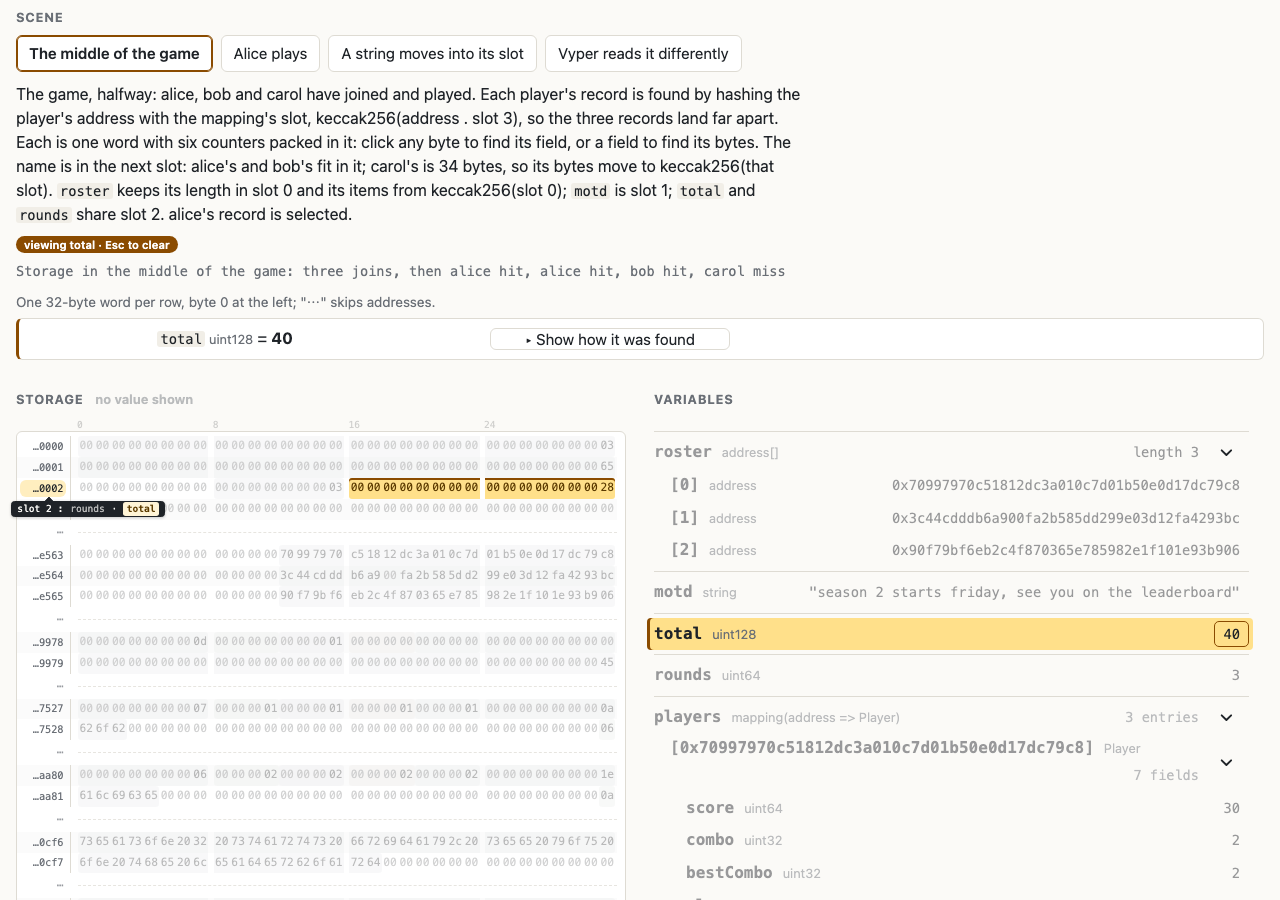
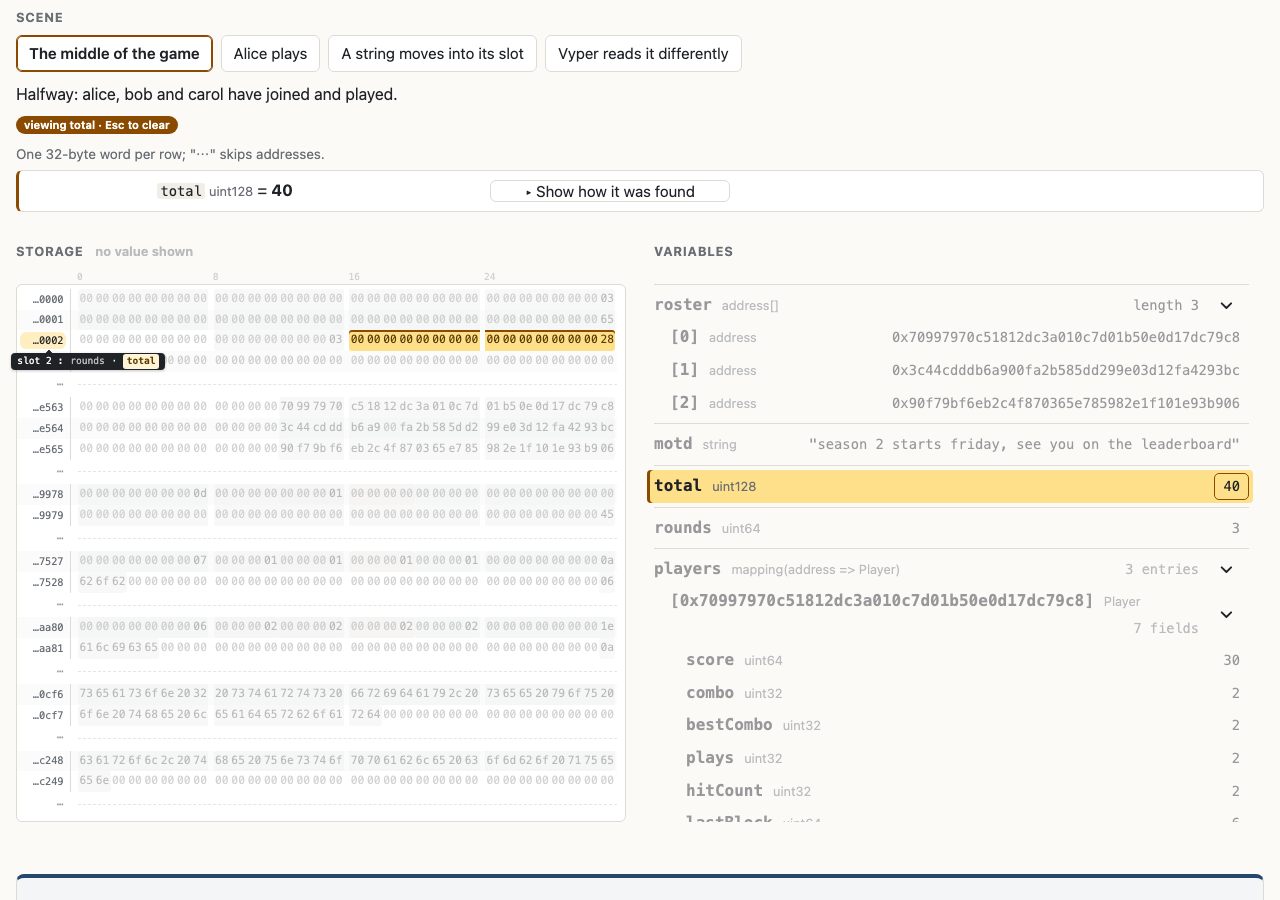
Inspector: the page decluttered to put the inspector on the first screen (one line a scene, a short contract intro, a short memory lede); the removed prose moved to the README's About this demo, linked at the bottom

diff --git a/demos/inspector/index.html b/demos/inspector/index.html
@@ -71,38 +71,15 @@ end of the body fetches the decoder and the data. -->
 <main>
   <header>
     <h1>Storage, by name</h1>
-    <p>One contract, Arcade, in a few scenes. Click a byte in a word of
-    storage, and the variable that owns it lights up; click a variable,
-    and its bytes light up. "How this was found" shows each step from
-    the variable to its bytes. Some scenes compare two points (Before |
-    After) and mark what changed.</p>
-    <p>Decoded by ethdebug's reference library from solc's ethdebug
-    output (a preview build of Walnut's solc fork, walnuthq/solidity
-    PR #10). Each variable's base slot, offset and type come from the
-    program context; the rules for mappings, structs, arrays and strings
-    come from the pointer templates in the resources.</p>
-    <p class="meta" id="meta"></p>
-    <p class="appendix-nav">Part of the ethdebug post appendix, with
-    <a href="../../companion/">ethdebug in depth</a> and
-    <a href="../debugger/">Step through a transaction</a>.</p>
+    <p class="meta" id="meta" hidden></p>
   </header>
 
   <section id="contract" class="contract" aria-labelledby="contract-h">
     <h2 class="label" id="contract-h">The contract</h2>
-    <p>Every scene below shows one contract, Arcade: the scoreboard of a
-    big multiplayer game. A player calls <code>join(name)</code> once,
-    then <code>play()</code>, which rolls a hit or a miss. A hit adds 1 to
-    the player's combo and scores 10 × combo (at most 5×); a miss sets
-    the combo back to 0, and the score stays. Each player's
-    <code>Player</code> in <code>players</code> is one full packed slot
-    (score, combo, bestCombo, plays, hitCount, lastBlock) and a name in
-    the next slot; <code>roster</code> lists who joined, since a mapping
-    cannot list its keys; <code>total</code> and <code>rounds</code>
-    count all points and hits; <code>setMotd</code> sets the message of
-    the day. The story: deploy with a 50-byte motd; alice, bob and carol
-    join; alice hits twice, bob hits, carol misses (the middle of the
-    game); alice hits a third time; then the motd becomes "gl hf". Each
-    player is an anvil account.</p>
+    <p>Arcade, the scoreboard of a multiplayer game: each player's record
+    is one packed slot and a name, kept in a mapping; <code>roster</code>
+    lists who joined. Click a byte to find its variable, or a variable to
+    find its bytes.</p>
     <!-- the contract's source (bin/make-fixtures.mjs writes it; bin/run.mjs
     checks that it matches); collapsed by default, open or closed as the
     viewer left it (localStorage) -->
@@ -175,47 +152,10 @@ contract Arcade {
     <!-- one intro per scene (fixtures/index.json); the loader shows the
     first one -->
     <div id="intros" class="intros">
-      <p data-scene="mid" hidden>The game, halfway: alice, bob and carol
-      have joined and played. Each player's record is found by hashing
-      the player's address with the mapping's slot,
-      keccak256(address . slot 3), so the three records land far apart.
-      Each is one word with six counters packed in it: click any byte to
-      find its field, or a field to find its bytes. The name is in the
-      next slot: alice's and bob's fit in it; carol's is 34 bytes, so its
-      bytes move to keccak256(that slot). <code>roster</code> keeps its
-      length in slot 0 and its items from keccak256(slot 0);
-      <code>motd</code> is slot 1; <code>total</code> and
-      <code>rounds</code> share slot 2. alice's
-      record is selected.</p>
-      <p data-scene="alice" hidden>alice hits a third time: combo 3, so
-      she scores 10 × 3 = 30. In her one slot, score goes from 30 to 60,
-      combo, bestCombo, plays and hitCount from 2 to 3, and lastBlock to
-      this block; <code>total</code> goes from 40 to 70 and
-      <code>rounds</code> from 3 to 4. Before is the middle of the game,
-      After is after her hit. Beside the lit word, a card shows it in the
-      other state.</p>
-      <p data-scene="motd" hidden>Arcade was deployed with a 50-byte
-      message of the day. A string that long keeps only 2 × its length + 1
-      in its slot, slot 1, and its bytes at keccak256(slot 1) and the slot
-      after it. <code>setMotd("gl hf")</code> makes it 5 bytes: short
-      enough that Solidity stores it in slot 1 itself, its bytes from the
-      high end and 2 × its length in the last byte. solc writes zeros to
-      the two old data slots; they are in the dump After. "How this was
-      found" shows where the two rules part. The call's calldata is under
-      the storage.</p>
-      <p data-scene="vyper" hidden>The same three players, in the same
-      game compiled by Vyper 0.4.3 (<code>contracts/Arcade.vy</code>), at
-      the same middle of the game. The rule from the first scene,
-      keccak256(address . slot 3), is Solidity's; it finds nothing here:
-      the tree shows each player with zeros and no name, with no error.
-      Vyper does not pack and keeps its arrays inline, so its
-      <code>players</code> is slot 108, not 3; it hashes the slot first,
-      keccak256(108 . address), and puts each counter in its own slot,
-      then the name's length and bytes. So
-      the real records sit elsewhere: those words are in the dump, and no
-      value shown owns them. Vyper emits no ethdebug, so the page has no
-      rule from Vyper; "How this was found" lists the selected player's
-      Vyper words for contrast.</p>
+      <p data-scene="mid" hidden>Halfway: alice, bob and carol have joined and played.</p>
+      <p data-scene="alice" hidden>alice's third hit: her record before and after.</p>
+      <p data-scene="motd" hidden>setMotd("gl hf"): a 50-byte string becomes a short one.</p>
+      <p data-scene="vyper" hidden>The same game compiled by Vyper: Solidity's rule finds zeros.</p>
     </div>
     <div class="moderow"><span class="modelabel" id="mode-l">Show</span>
       <div id="mode" class="picker mode" role="radiogroup"
@@ -226,14 +166,14 @@ contract Arcade {
           aria-checked="true">After</button></div>
       <label class="chipcheck"><input type="checkbox" id="insets" checked>
         show other state</label>
-      <span id="viewing" class="viewing" style="visibility: hidden">
-        </span></div>
+      <span id="viewing" class="viewing" style="visibility: hidden"
+        >&nbsp;</span></div>
     <p id="summary" class="summary"></p>
   </section>
 
   <!-- how to read the dump, in one line -->
-  <p class="howread muted small">One 32-byte word per row, byte 0 at the
-  left; "⋯" skips addresses.</p>
+  <p class="howread muted small">One 32-byte word per row; "⋯" skips
+  addresses.</p>
   <!-- the bar over both columns, one line, always there: the selection,
   the replay's controls and the step's short caption (main.js renderBox) -->
   <div id="details" class="rbar" aria-live="polite" tabindex="0"
@@ -319,45 +259,15 @@ contract Arcade {
     </section>
   </div>
 
-  <section class="notes" aria-label="Notes">
-    <h2>What is not done yet</h2>
-    <ul>
-      <li><b>Mapping keys.</b> A mapping does not list its keys. The page
-      shows only keys read from the KECCAK256 inputs in a trace (the
-      players' addresses, from their <code>join</code> and <code>play</code> calls; <code>roster</code> lists them too). Other entries may
-      exist but are not shown.</li>
-      <li><b>Nested mappings.</b> A mapping inside a struct or another
-      mapping needs one template applied after another, with a key for
-      each level. The page does not do that yet; Arcade has none.</li>
-      <li><b>Vyper.</b> Vyper emits no ethdebug. Its scene applies
-      solc's rule to Vyper's storage, to show what a tool built on
-      Solidity's rules reads; Vyper's own slots come from its
-      trace.</li>
-      <li><b>Names in the templates.</b> Template and type names such as
-      <code>t_mapping$_t_address_$…</code> are solc's internal names.
-      ethdebug does not require them.</li>
-    </ul>
-  </section>
 
   <section id="memory" class="ahead" aria-labelledby="mem-h">
     <h2 id="mem-h">Inside one play: locals in memory, with BUG
       <span class="tag preview">preview: bugc from ethdebug/format main,
       not yet released</span></h2>
-    <p class="lede">BUG is ethdebug's teaching language, and bugc is
-    ethdebug's reference compiler. Arcade has a BUG port, and here is
-    alice's third hit again, paused at three points inside
-    <code>play()</code>. At each point, bugc's debug data lists the
-    local variables in scope, and gives most of them a pointer: bugc
-    keeps them in memory. Compile it without optimization (O0) or with
-    it (O2): at O0, <code>multiplied</code> is a real call, and its
-    locals are in a frame whose address is in the word at 0x80; at O2
-    it is inlined, so its locals are at fixed offsets, with no frame.
-    A local that bugc lists with its type only has no location at that
-    point. As above, the byte ranges come from ethdebug's reference
-    library (@ethdebug/pointers), which follows bugc's pointers against
-    the memory at each point. Only the decoding into numbers is this
-    page's own.</p>
-    <p class="meta" id="mmeta"></p>
+    <p class="lede">Arcade ported to BUG, ethdebug's teaching language:
+    alice's third hit, paused inside <code>play()</code>, its locals found
+    in memory by bugc's pointers.</p>
+    <p class="meta" id="mmeta" hidden></p>
 
     <div class="mpicks" id="msection">
       <div class="mpickrow"><span class="label">Compiled</span>
@@ -405,11 +315,6 @@ contract Arcade {
         <h2 class="label" id="mwords-h">The words in memory
           <span class="legend"><span class="bfree">no value
           shown</span></span></h2>
-        <p class="muted small intro">Memory at the paused step, one
-        32-byte word to a line, by offset. Shown: the words a local
-        lives in; "⋯" marks words left out. At the last point, alice's
-        record slot in storage comes last. Point at a value, a byte or
-        an address to light it up.</p>
         <div class="dump"><div id="mpanel" class="panel"></div></div>
         <div id="mdetails" class="details" aria-live="polite"></div>
       </section>
@@ -422,20 +327,11 @@ contract Arcade {
       </section>
     </div>
 
-    <ul class="mknown small muted">
-      <li>"no location at this point": bugc lists the local with its
-      type and no pointer. This happens with optimization (a value the
-      optimizer folded away) and without it (at O0, <code>hit</code>
-      after its <code>if</code>).</li>
-      <li>Inside <code>multiplied</code>, <code>m = combo</code> moves
-      <code>m</code>: after it, bugc points <code>m</code> at a word
-      that holds <code>combo</code>'s bytes too.</li>
-      <li>Alice's record slot is the page's own: bugc's pointer for
-      <code>players</code> gives only its base slot, so the slot
-      (keccak256 of the key and 4) and the packed members follow BUG's
-      rules, which are Solidity's.</li>
-    </ul>
   </section>
+  <p class="about muted small"><a href="https://github.com/ethdebug/argot-post-2026-10/blob/main/public/demos/inspector/README.md">About
+  this demo</a> · part of the ethdebug post appendix, with
+  <a href="../../companion/">ethdebug in depth</a> and
+  <a href="../debugger/">Step through a transaction</a></p>
 </main>
 <script>
 // The loader. Fetches the decoder bundle and the data with progress

diff --git a/demos/inspector/style.css b/demos/inspector/style.css
@@ -1,5 +1,9 @@
 /* Storage inspector. Tokens and shared components (header, code,
    picker, tags, notes) are in ../appendix.css. */
+/* (the page keeps one line a scene: its intro; this one is for the
+   checks and the loader) */
+#summary { display: none; }
+.about { margin: 32px 0 0; }
 .summary {
   font-family: ui-monospace, Menlo, monospace;
   font-size: 0.85rem;

diff --git a/demos/inspector/README.md b/demos/inspector/README.md
@@ -18,6 +18,137 @@ the pointer templates. This page does not use soldb.
 Serve the repo root over HTTP and open `demos/inspector/`. The page needs no
 node: everything comes from `fixtures/`.
 
+
+## About this demo
+
+This is the text the page used to carry; the page keeps one line a
+scene so the inspector is on the first screen, and links here.
+
+### What the page shows
+
+One contract, Arcade, in a few scenes. Click a byte in a word of
+storage, and the variable that owns it lights up; click a variable,
+and its bytes light up. "Show how it was found" walks from the
+variable to its bytes. Some scenes compare two points (Before | After)
+and mark what changed.
+
+Decoded by ethdebug's reference library from solc's ethdebug output (a
+preview build of Walnut's solc fork, walnuthq/solidity PR #10), with
+the optimizer off. Each variable's base slot, offset and type come
+from the program context; the rules for mappings, structs, arrays and
+strings come from the pointer templates in the resources.
+`@ethdebug/pointers` is from ethdebug/format main (see
+`vendor/pointers.js` below), pending release.
+
+### The contract
+
+Every scene shows one contract, Arcade: the scoreboard of a big
+multiplayer game. A player calls `join(name)` once, then `play()`,
+which rolls a hit or a miss. A hit adds 1 to the player's combo and
+scores 10 × combo (at most 5×); a miss sets the combo back to 0, and
+the score stays. Each player's `Player` in `players` is one full
+packed slot (score, combo, bestCombo, plays, hitCount, lastBlock) and
+a name in the next slot; `roster` lists who joined, since a mapping
+cannot list its keys; `total` and `rounds` count all points and hits;
+`setMotd` sets the message of the day. The story: deploy with a
+50-byte motd; alice, bob and carol join; alice hits twice, bob hits,
+carol misses (the middle of the game); alice hits a third time; then
+the motd becomes "gl hf". Each player is an anvil account.
+
+### The scenes
+
+- The middle of the game: alice, bob and carol have joined and played.
+  Each player's record is found by hashing the player's address with
+  the mapping's slot, keccak256(address . slot 3), so the three
+  records land far apart. Each is one word with six counters packed in
+  it. The name is in the next slot: alice's and bob's fit in it;
+  carol's is 34 bytes, so its bytes move to keccak256(that slot).
+  `roster` keeps its length in slot 0 and its items from
+  keccak256(slot 0); `motd` is slot 1; `total` and `rounds` share slot
+  2. alice's record is selected.
+- Alice plays: alice hits a third time: combo 3, so she scores
+  10 × 3 = 30. In her one slot, score goes from 30 to 60, combo,
+  bestCombo, plays and hitCount from 2 to 3, and lastBlock to this
+  block; `total` goes from 40 to 70 and `rounds` from 3 to 4. Before
+  is the middle of the game, After is after her hit. Beside the lit
+  word, a card shows it in the other state.
+- A string moves into its slot: Arcade was deployed with a 50-byte
+  message of the day. A string that long keeps only 2 × its length + 1
+  in its slot, slot 1, and its bytes at keccak256(slot 1) and the slot
+  after it. `setMotd("gl hf")` makes it 5 bytes: short enough that
+  Solidity stores it in slot 1 itself, its bytes from the high end and
+  2 × its length in the last byte. solc writes zeros to the two old
+  data slots; they are in the dump After. The walkthrough shows where
+  the two rules part. The call's calldata is under the storage.
+- Vyper reads it differently: the same three players, in the same game
+  compiled by Vyper 0.4.3 (`contracts/Arcade.vy`), at the same middle
+  of the game. The rule from the first scene, keccak256(address .
+  slot 3), is Solidity's; it finds nothing here: the tree shows each
+  player with zeros and no name, with no error. Vyper does not pack
+  and keeps its arrays inline, so its `players` is slot 108, not 3; it
+  hashes the slot first, keccak256(108 . address), and puts each
+  counter in its own slot, then the name's length and bytes. So the
+  real records sit elsewhere: those words are in the dump, and no
+  value shown owns them. Vyper emits no ethdebug, so the page has no
+  rule from Vyper; the walkthrough lists the selected player's Vyper
+  words for contrast.
+
+How to read the dump: one 32-byte word per row, byte 0 at the left;
+"⋯" skips addresses.
+
+### What is not done yet
+
+- Mapping keys. A mapping does not list its keys. The page shows only
+  keys read from the KECCAK256 inputs in a trace (the players'
+  addresses, from their `join` and `play` calls; `roster` lists them
+  too). Other entries may exist but are not shown.
+- Nested mappings. A mapping inside a struct or another mapping needs
+  one template applied after another, with a key for each level. The
+  page does not do that yet; Arcade has none.
+- Vyper. Vyper emits no ethdebug. Its scene applies solc's rule to
+  Vyper's storage, to show what a tool built on Solidity's rules reads;
+  Vyper's own slots come from its trace.
+- Names in the templates. Template and type names such as
+  `t_mapping$_t_address_$…` are solc's internal names. ethdebug does
+  not require them.
+
+### Inside one play (the memory section)
+
+BUG is ethdebug's teaching language, and bugc is ethdebug's reference
+compiler. Arcade has a BUG port, and the section shows alice's third
+hit again, paused at three points inside `play()`. At each point,
+bugc's debug data lists the local variables in scope, and gives most
+of them a pointer: bugc keeps them in memory. Compile it without
+optimization (O0) or with it (O2): at O0, `multiplied` is a real call,
+and its locals are in a frame whose address is in the word at 0x80; at
+O2 it is inlined, so its locals are at fixed offsets, with no frame. A
+local that bugc lists with its type only has no location at that
+point. The byte ranges come from ethdebug's reference library
+(@ethdebug/pointers), which follows bugc's pointers against the memory
+at each point. Only the decoding into numbers is the page's own. The
+program is compiled by bugc from ethdebug/format main (the commit is in
+`fixtures/memory.json`).
+
+The memory dump shows memory at the paused step, one 32-byte word to a
+line, by offset: the words a local lives in; "⋯" marks words left out.
+At the last point, alice's record slot in storage comes last. Point at
+a value, a byte or an address to light it up.
+
+- "no location at this point": bugc lists the local with its type and
+  no pointer. This happens with optimization (a value the optimizer
+  folded away) and without it (at O0, `hit` after its `if`).
+- Inside `multiplied`, `m = combo` moves `m`: after it, bugc points
+  `m` at a word that holds `combo`'s bytes too.
+- Alice's record slot is the page's own: bugc's pointer for `players`
+  gives only its base slot, so the slot (keccak256 of the key and 4)
+  and the packed members follow BUG's rules, which are Solidity's.
+
+### Credits and links
+
+Part of the ethdebug post appendix, with "ethdebug in depth"
+(`../../companion/`) and "Step through a transaction"
+(`../debugger/`).
+
 ## Scenes
 
 `fixtures/index.json` lists the scenes. Each has a title, a fixture,
